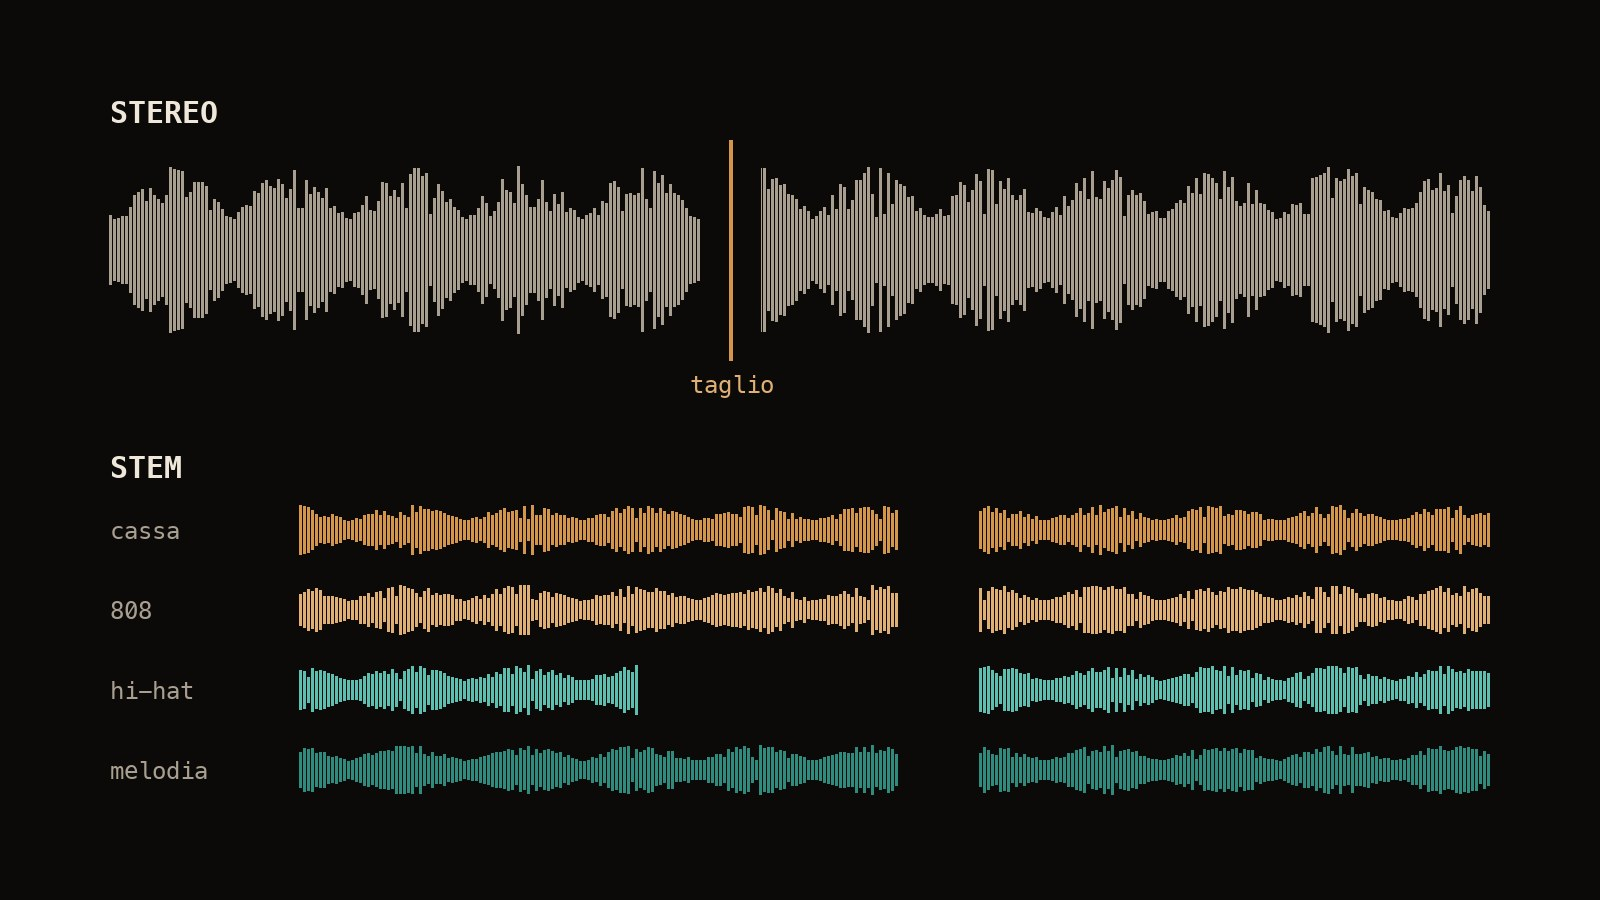
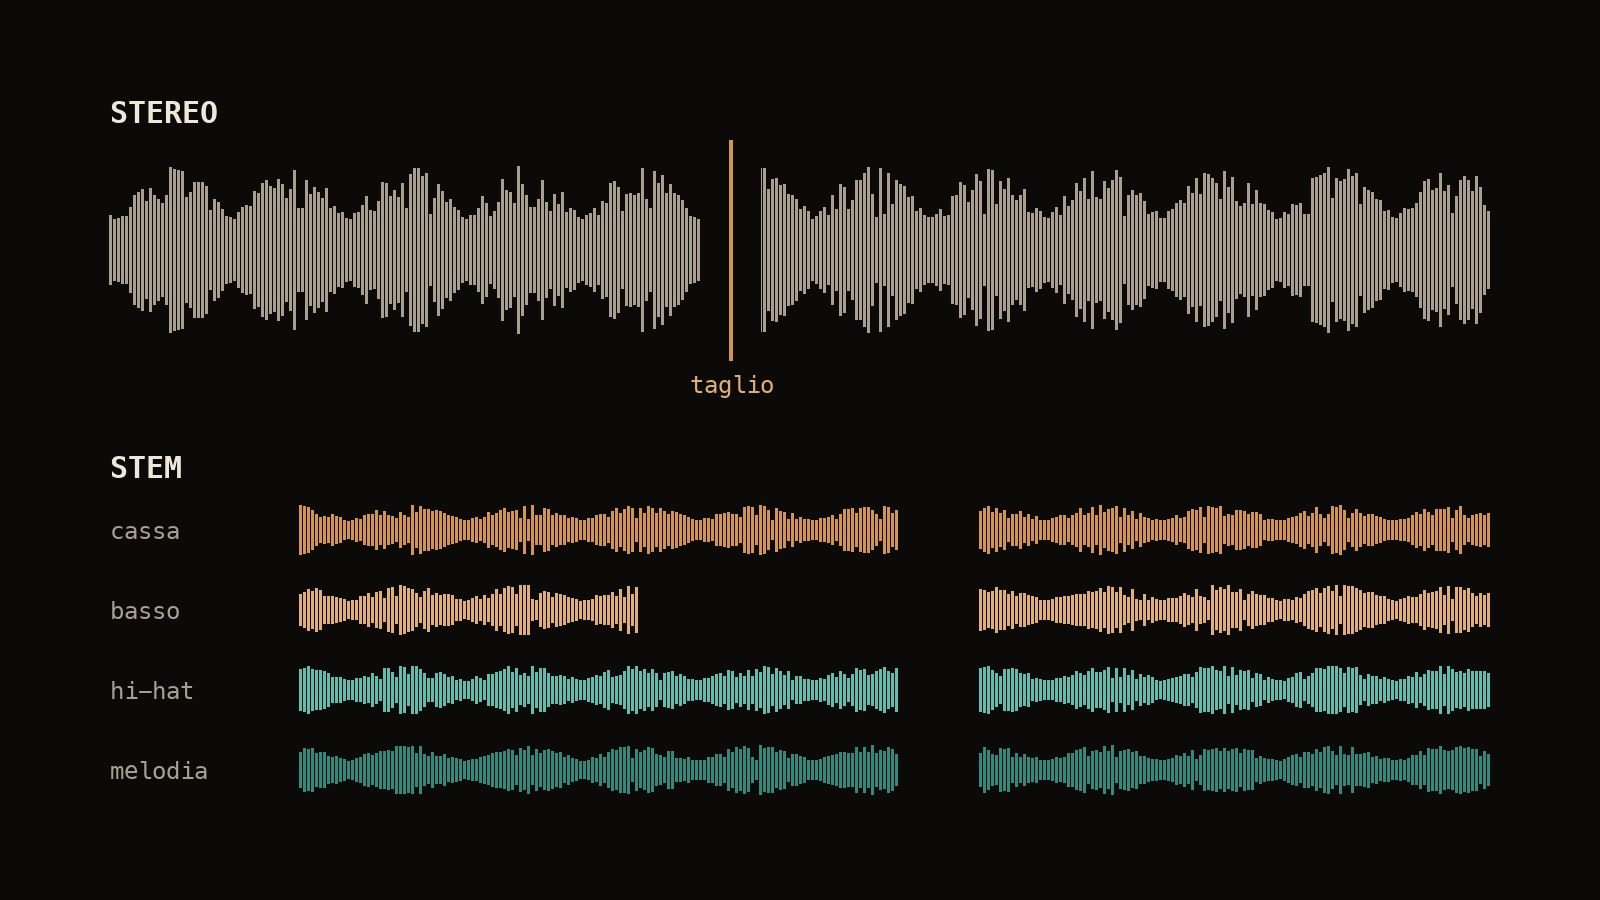
O42 e O43: correzioni di Riccardo dai Doc, programmate (08/10 e 15/10), copertine C; tolte le copertine scartate

diff --git a/src/dritte/struttura-di-una-canzone.html b/src/dritte/struttura-di-una-canzone.html
@@ -1,7 +1,6 @@
 ---
 titolo: "La struttura di una canzone: intro, strofa, ritornello, bridge e special"
 date: 2026-10-08T17:00:00Z
-bozza: true
 descrizione: "Le parti di una canzone e come si chiamano, quante barre dura di solito ognuna e come riconoscerle nei brani che ascolti."
 copertina: struttura-canzone-sezioni.jpg
 tags: ["struttura canzone", "strofa", "ritornello", "hook", "pre-ritornello", "bridge", "special", "intro", "outro", "16 barre", "barre rap", "contare le barre", "rap", "trap", "pop"]
@@ -14,8 +13,8 @@ argomento: ["beat-produzione"]
 
 <h3>Le parti e come si chiamano</h3>
 <ul>
-<li><strong>Intro</strong>: l'apertura. Spesso la presentazione degli accordi, un accenno della melodia del ritornello, un evento catchy che impedisca di skippare alla traccia successiva. È il biglietto da visita. Può essere corta quanto un riverbero in reverse che entra direttamente sul ritornello. Nella musica di oggi dura spesso meno di 10 secondi.</li>
-<li><strong>Strofa</strong>: la parte in cui si racconta, lo spazio per esprimere l'idea del pezzo. Il testo cambia a ogni strofa, la base resta simile.</li>
+<li><strong>Intro</strong>: l'apertura. Spesso la presentazione degli accordi, un accenno della melodia del ritornello, un evento catchy che impedisca di skippare alla traccia successiva. È il biglietto da visita. Può essere corta quanto un riverbero in reverse che entra direttamente sul ritornello. Nella musica di oggi dura spesso meno di 10 secondi, o addirittura non c'è.</li>
+<li><strong>Strofa</strong>: la parte in cui si racconta, lo spazio per esprimere l'idea del pezzo. Il testo cambia a ogni strofa, la base può restare simile.</li>
 <li><strong>Pre-ritornello</strong>: una sezione che cambia rispetto alla strofa, tiene alta la tensione e prepara all'energia del ritornello. Non c'è in tutti i pezzi, dipende molto dalla produzione.</li>
 <li><strong>Ritornello</strong> (hook, chorus, rit): la parte che "si canta", che esprime in sintesi il senso del pezzo. Torna uguale o arricchita e resta in testa. Di solito è il momento con più energia.</li>
 <li><strong>Bridge</strong>: una sezione di passaggio che porta verso il ritornello o il pre-ritornello. Quanto è lunga e dove si trova dipende da quanto è articolato il pezzo. Di solito c'è un calo di energia, un momento di quiete, prima del ritornello.</li>
@@ -42,8 +41,8 @@ argomento: ["beat-produzione"]
 <p>Sono misure di partenza, non vincoli: strofe da 12 o da 24 barre, ritornelli in apertura, un solo ritornello alla fine sono scelte che si trovano in molti brani di successo.</p>
 
 <h3>Perché la struttura conta</h3>
-<p>La ripetizione del ritornello dà a chi ascolta un punto di riferimento; il contrasto tra strofa e ritornello e lo special che arriva una volta sola tengono viva l'attenzione. Un pezzo senza una struttura pensata (strofe che non finiscono, un ritornello che arriva tardi o non torna, nessuna sezione che cambia) diventa un'altra cosa.</p>
-<p>Detto questo, ognuno è libero di creare la musica come vuole e di strutturarla o meno. Le indicazioni di questo articolo sono per chi vuole strutturare i propri brani come singoli da discografia, da classifica.</p>
+<p>La ripetizione del ritornello dà a chi ascolta un punto di riferimento; il contrasto tra strofa e ritornello e lo special che arriva una volta sola tengono viva l'attenzione. Un pezzo senza una struttura pensata (strofe lunghe e un ritornello che arriva tardi o non torna, nessuna sezione che cambia) diventa un'altra cosa.</p>
+<p>Detto questo, ognuno è libero di creare la musica come vuole e di strutturarla o meno. Le indicazioni di questo articolo sono per chi vuole costruire i propri brani come singoli da discografia, da classifica.</p>
 
 <h3>Come allenare l'orecchio</h3>
 <p>Il modo più diretto per imparare è smontare i brani dei tuoi artisti preferiti. Per ogni pezzo:</p>
@@ -53,11 +52,10 @@ argomento: ["beat-produzione"]
 <li>conta le barre di ognuna, seguendo il rullante o contando 4 battiti per barra;</li>
 <li>guarda quando arriva il primo ritornello, quante volte torna, se c'è uno special e cosa cambia lì.</li>
 </ul>
-<p>Dopo qualche brano dello stesso genere le proporzioni diventano familiari, e si notano anche le eccezioni: spesso sono proprio le scelte che rendono un pezzo riconoscibile.</p>
+<p>Dopo qualche brano dello stesso genere le proporzioni diventano familiari, e si notano anche le eccezioni: spesso sono proprio le scelte che rendono un pezzo riconoscibile. Impara le regole e poi puoi decidere di non seguirle.</p>
 
 <h3>Quando si decide</h3>
-<p>La struttura si può fissare prima di registrare, ma spesso è in sessione che un pezzo mostra cosa può diventare. Un ritornello in più, uno special, un'intro più corta: si prova subito, si edita il beat, si ascolta e si decide insieme. Se funziona si tiene; se no si torna indietro o si prova un altro edit. Nella DAW l'editing non è distruttivo, quindi ogni prova si annulla in un attimo.</p>
-<p>Se hai un pezzo e vuoi capire che struttura dargli, mandami il beat o un provino, anche registrato col telefono, su <a href="https://t.me/{{ sito.telegram }}" rel="noopener">Telegram</a> o <a href="https://wa.me/{{ sito.whatsapp }}" rel="noopener">WhatsApp</a>.</p>
+<p>La struttura si può fissare prima di registrare, ma è anche durante la sessione di registrazione che un pezzo mostra cosa può diventare. Un ritornello in più, uno special, un'intro più corta: si prova subito, si edita il beat, si ascolta e si decide insieme. Se funziona si tiene; se no si torna indietro o si prova un altro edit. Se hai un pezzo e vuoi capire che struttura dargli, mandami il beat o un provino, anche registrato col telefono, su <a href="https://t.me/{{ sito.telegram }}" rel="noopener">Telegram</a> o <a href="https://wa.me/{{ sito.whatsapp }}" rel="noopener">WhatsApp</a>.</p>
 
 <h3>Fonti</h3>
 <p class="fonti">4c Music Production School, "Com'è strutturata una canzone?" (4cmp.it) · eMastered, "Rap Song Structure: Complete Guide with Examples" (emastered.com) · H. Léveillé Gauvin, "Drawing listener attention in popular music", Musicae Scientiae, 2018 · Wikipedia, "Backbeat" e "Song structure" (en.wikipedia.org).</p>

diff --git a/src/dritte/modificare-un-beat-comprato.html b/src/dritte/modificare-un-beat-comprato.html
@@ -1,16 +1,15 @@
 ---
 titolo: "Modificare un beat comprato: cosa permette la licenza e cosa si può fare con il file stereo o con gli stem"
 date: 2026-10-15T17:00:00Z
-bozza: true
 descrizione: "Un beat comprato in licenza su BeatStars si può accorciare, allungare, riordinare, trasporre e rallentare. Cosa dice il contratto standard, cosa si riesce a fare con il solo file stereo e cosa cambia con gli stem."
-copertina: beat-comprato-daw-tracce.jpg
+copertina: beat-comprato-stereo-e-stem.jpg
 tags: ["beat comprato", "modificare un beat", "BeatStars", "licenza beat", "lease", "trackout", "stem", "editing beat", "struttura canzone", "type beat", "rap", "trap"]
 lingua: it
 per_chi: ["rapper-cantante", "producer"]
 argomento: ["beat-produzione", "diritti"]
 ---
 
-<p>Un beat comprato in licenza si può modificare: accorciare l'intro, ripetere un ritornello, togliere una strofa, cambiare tonalità o velocità. Il contratto standard di BeatStars lo prevede in modo esplicito, e con un editing accurato le modifiche non si sentono. Quanto si può fare dipende dai file che si ricevono: il solo file stereo o anche le tracce separate.</p>
+<p>Un beat comprato in licenza si può modificare: accorciare l'intro, ripetere un ritornello, togliere una strofa, cambiare tonalità o velocità. Il contratto standard di BeatStars lo prevede in modo esplicito, e con un editing accurato le modifiche non si sentono. Quanto si può fare dipende dai file che si ricevono: il solo file stereo o le tracce separate.</p>
 
 <h3>Cosa dice la licenza</h3>
 <p>Il contratto standard di BeatStars per le licenze non esclusive (lease) concede di modificare l'arrangiamento, la durata, il tempo e l'intonazione del beat per preparare il nuovo brano. In pratica:</p>
@@ -37,21 +36,20 @@ argomento: ["beat-produzione", "diritti"]
 <li>giunte nascoste nelle pause, nei fill di batteria e nei cambi di sezione;</li>
 <li>filtri ed effetti per rendere naturale il passaggio: un passa-alto che svuota il beat prima del ritornello, un riverbero o un delay che copre il taglio.</li>
 </ul>
-<p>Quanto si può cambiare dipende da come è composto il beat. Uno costruito su loop regolari si presta a quasi tutto; uno con code lunghe, melodie che attraversano le sezioni o 808 che suonano sopra il cambio di sezione dà meno margine. Per sapere dove tagliare serve conoscere le parti del pezzo e contare le barre: è spiegato nella <a href="/dritte/struttura-di-una-canzone/">dritta sulla struttura di una canzone</a>.</p>
+<p>Quanto si può cambiare dipende da come è composto il beat. Uno costruito su loop regolari si presta a quasi tutto; uno con code lunghe, melodie o sample che attraversano le sezioni o 808 che suonano sopra il cambio di sezione dà meno margine. Per sapere dove tagliare serve conoscere le parti del pezzo e contare le barre: è spiegato nella <a href="/dritte/struttura-di-una-canzone/">dritta sulla struttura di una canzone</a>.</p>
 
 <h3>Con gli stem (trackout)</h3>
-<p>Gli stem sono le tracce separate del beat: cassa, rullante, hi-hat, 808, melodie, campioni. Con gli stem l'editing diventa più semplice e più versatile:</p>
+<p>Gli stem sono le tracce separate del beat: cassa, rullante, hi-hat, basso, melodie, campioni. Con gli stem l'editing diventa più semplice e più versatile:</p>
 <ul>
 <li>si può togliere la batteria in un punto e lasciare solo la melodia;</li>
 <li>far entrare la melodia da sola nell'intro;</li>
-<li>lasciare l'808 solo nei ritornelli;</li>
+<li>togliere il basso su parti di strofa;</li>
 <li>costruire uno special svuotando il beat.</li>
 </ul>
-<p>E nel mix si ha il controllo di ogni elemento, non solo del file intero: la voce trova il suo spazio senza dover compensare sul beat già mixato. Per chi vuole lavorare sulla struttura e sul mix, la licenza con gli stem è la scelta più comoda.</p>
+<p>E nel mix si ha il controllo di ogni elemento, non solo del file intero: la voce trova il suo spazio senza dover compensare sul beat già mixato. Per chi vuole lavorare sulla struttura e sul mix accurato, la licenza con gli stem è la scelta più giusta.</p>
 
 <h3>Quando si fa</h3>
-<p>Le modifiche alla struttura si possono decidere prima di registrare, ma spesso è in sessione che il pezzo mostra cosa può diventare: si prova un edit, si ascolta, si tiene o si torna indietro. Nella DAW l'editing non è distruttivo, quindi ogni prova si annulla in un attimo.</p>
-<p>Se hai comprato un beat e vuoi capire cosa ci si può fare, mandamelo, insieme a un provino anche registrato col telefono, su <a href="https://t.me/{{ sito.telegram }}" rel="noopener">Telegram</a> o <a href="https://wa.me/{{ sito.whatsapp }}" rel="noopener">WhatsApp</a>.</p>
+<p>Le modifiche alla struttura si possono decidere prima di registrare, ma spesso è in sessione che il pezzo mostra cosa può diventare: si prova un edit, si ascolta, si tiene o si torna indietro. Se hai comprato un beat e vuoi capire cosa ci si può fare, mandamelo, insieme a un provino anche registrato col telefono, su <a href="https://t.me/{{ sito.telegram }}" rel="noopener">Telegram</a> o <a href="https://wa.me/{{ sito.whatsapp }}" rel="noopener">WhatsApp</a>.</p>
 
 <h3>Fonti</h3>
 <p class="fonti">BeatStars, contratto standard di licenza non esclusiva (beatstars.com) · BeatStars, "The Ultimate Guide to Music Licenses in BeatStars Studio" (blog.beatstars.com) · Producer Fury, "Non-Exclusive vs Exclusive License" (producerfury.com).</p>
